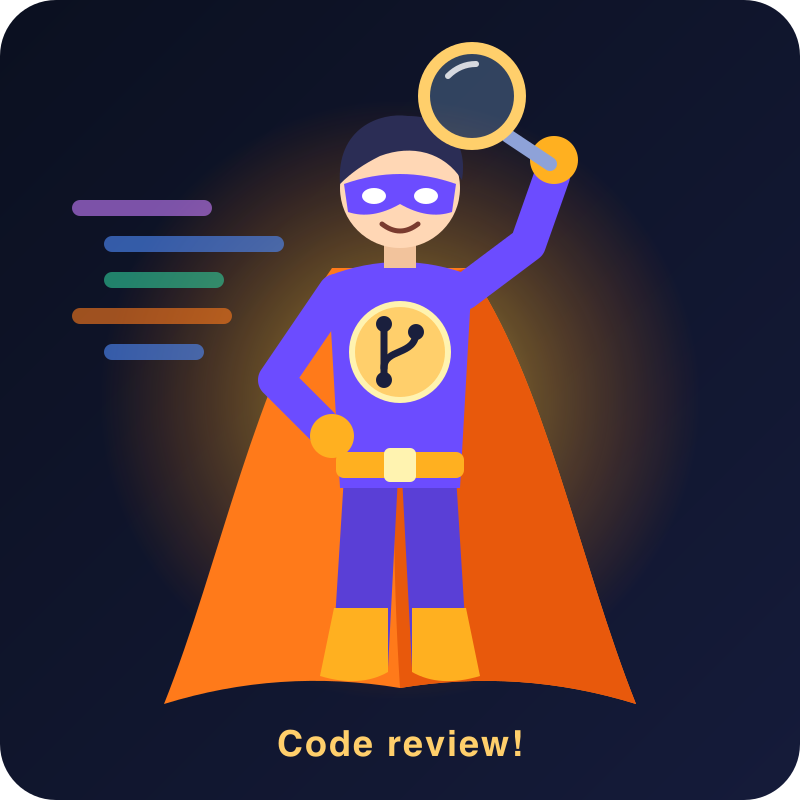
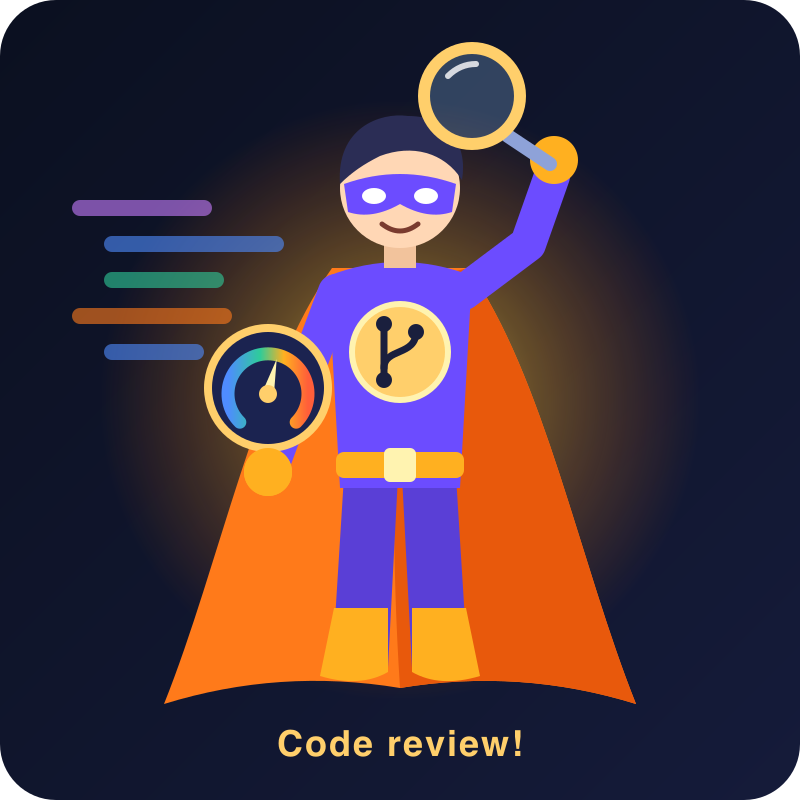
Give GPM a power meter in every full-body picture
Each pose holds a hand-held gauge whose needle tells the story: revving
(hero), wobbling (wave, review), pegged at max (flying, celebrate),
jumping with each commit (commit) and sinking to low (oops). Avatar and
face cuts are unchanged.

Changed region(s): [[0.25, 0.375, 0.4688, 0.625]]

diff --git a/scripts/make_gpm.py b/scripts/make_gpm.py
@@ -43,6 +43,30 @@ WAVE_R = arm([(632, 194), (664, 158), (672, 118)], (674, 110), 13, "open")
 HOLD_R = arm([(632, 194), (660, 150), (666, 118)], (667, 112), 12)
 LENS_R = arm([(632, 194), (664, 170), (676, 136)], (677, 128), 12)
 
+
+def meter_arm(points, hand, reading, tilt=0):
+    """Arm gripping a power meter by its handle; the dial sits 42 units above the hand.
+
+    reading 0..1 sets the needle (LOW..MAX). tilt rotates the meter about the hand.
+    The needle's inner <g class="ndl"> is the animated part (see NEEDLE)."""
+    hx, hy = hand
+    cx, cy = hx, hy - 42
+    px, py = cx, cy + 3  # needle pivot
+    deg = round(-135 + 270 * reading)
+    s = arm(points, hand, 12)
+    s += f'''<g transform="rotate({tilt} {hx} {hy})">
+    <path d="M{cx} {cy + 28} V{hy}" stroke="#2b2d55" stroke-width="8" stroke-linecap="round"/>
+    <circle cx="{cx}" cy="{cy}" r="30" fill="#1b2350" stroke="#ffcf6b" stroke-width="4"/>
+    <path d="M{px - 14.1:.1f} {py + 14.1:.1f} A20 20 0 1 1 {px + 14.1:.1f} {py + 14.1:.1f}" fill="none" stroke="url(#dial)" stroke-width="6.5" stroke-linecap="round"/>
+    <g transform="rotate({deg} {px} {py})"><g class="ndl"><path d="M{px - 3} {py} L{px} {py - 18} L{px + 3} {py} Z" fill="#fff3b0"/></g></g>
+    <circle cx="{px}" cy="{py}" r="4.5" fill="#ffcf6b"/>
+    </g>'''
+    return s + f'<circle cx="{hx}" cy="{hy}" r="12" fill="{GOLD}"/>'  # fingers over the handle
+
+
+METER_L = dict(points=[(568, 194), (534, 222), (506, 226)], hand=(504, 226))
+METER_R = dict(points=[(632, 194), (666, 222), (694, 226)], hand=(696, 226))
+
 SMILE = '<path d="M591 160 Q600 167 609 160" fill="none" stroke="#7a3b2e" stroke-width="2.5" stroke-linecap="round"/>'
 GRIN = ('<path d="M588 157 Q600 174 612 157 Z" fill="#7a3b2e"/>'
         '<path d="M591 158 H609 L607 162 H593 Z" fill="#ffffff"/>')
@@ -91,6 +115,34 @@ BASE_CSS = '''
     @keyframes blink { 0%, 92%, 100% { transform: scaleY(1); } 95% { transform: scaleY(0.1); } }
     @keyframes bob { 0%, 100% { transform: translateY(0); } 50% { transform: translateY(-6px); } }
     @keyframes twinkle { 0%, 100% { transform: scale(0.6); opacity: 0.5; } 50% { transform: scale(1.2); opacity: 1; } }'''
+# Needle motion, rotated about the needle's base (relative to its still reading).
+NEEDLE_BASE = '''
+    .ndl { transform-box: fill-box; transform-origin: 50% 100%; }'''
+NEEDLE = {
+    # revs up as the fist pumps
+    "rev": '''
+    .ndl { animation: rev 2.4s ease-in-out infinite; }
+    @keyframes rev { 0%, 100% { transform: rotate(-45deg); } 50% { transform: rotate(0); } }''',
+    "wobble": '''
+    .ndl { animation: wobble-n 1.2s ease-in-out infinite; }
+    @keyframes wobble-n { 0%, 100% { transform: rotate(-6deg); } 50% { transform: rotate(6deg); } }''',
+    # pinned against MAX, rattling
+    "peg": '''
+    .ndl { animation: peg 0.24s linear infinite alternate; }
+    @keyframes peg { from { transform: rotate(-5deg); } to { transform: rotate(2deg); } }''',
+    # jumps up with each +1 commit lift
+    "tick": '''
+    .ndl { animation: tick 2.4s ease-in-out infinite; }
+    @keyframes tick { 0%, 100% { transform: rotate(-40deg); } 50%, 70% { transform: rotate(0); } }''',
+    # sinks to LOW and twitches
+    "sink": '''
+    .ndl { animation: sink 2.4s ease-in-out infinite; }
+    @keyframes sink { 0% { transform: rotate(60deg); } 40%, 100% { transform: rotate(0); } 60% { transform: rotate(8deg); } 70% { transform: rotate(0); } }''',
+}
+DIAL = '''
+    <linearGradient id="dial" x1="0" y1="0" x2="1" y2="0">
+      <stop offset="0" stop-color="#4f8cff"/><stop offset="0.4" stop-color="#2ecc9a"/><stop offset="0.7" stop-color="#ffb020"/><stop offset="1" stop-color="#ff5e3a"/>
+    </linearGradient>'''
 REDUCED = '''
     @media (prefers-reduced-motion: reduce) { * { animation: none !important; } }'''
 
@@ -165,17 +217,18 @@ HEAD = '''<?xml version="1.0" encoding="UTF-8"?>
     <radialGradient id="glow" cx="0.5" cy="0.5" r="0.5">
       <stop offset="0" stop-color="#ffe680" stop-opacity="0.7"/><stop offset="0.45" stop-color="#ffb020" stop-opacity="0.35"/>
       <stop offset="1" stop-color="#ff6a00" stop-opacity="0"/>
-    </radialGradient>
+    </radialGradient>{defs}
   </defs>
   <rect width="400" height="400" rx="28" fill="url(#bg)"/>'''
 
 
-def head(name, title, desc):
-    return HEAD.format(title=title, desc=desc, css=BASE_CSS + MOTION[name] + REDUCED)
+def head(name, title, desc, needle=None):
+    css = BASE_CSS + MOTION[name] + (NEEDLE_BASE + NEEDLE[needle] if needle else "") + REDUCED
+    return HEAD.format(title=title, desc=desc, css=css, defs=DIAL if needle else "")
 
 
-def page(name, title, desc, caption, body, back="", front=""):
-    return head(name, title, desc) + f'''
+def page(name, title, desc, caption, body, back="", front="", needle=None):
+    return head(name, title, desc, needle) + f'''
   <circle class="glow" cx="200" cy="200" r="150" fill="url(#glow)"/>
   {back}
   <g transform="translate(-400 -48)"><g class="fig">{body}
@@ -233,25 +286,33 @@ OOPS = '''<path class="drop" d="M286 66 C292 78 296 86 296 92 C296 100 290 104 2
     <rect x="23" y="13" width="6" height="17" rx="3" fill="#ffffff"/><circle cx="26" cy="36" r="3.5" fill="#ffffff"/></g></g>'''
 
 # ── pictures ─────────────────────────────────────────────────────────────────
+# Every full-body pose holds his power meter; the needle tells the story.
 PICTURES = {
-    "gpm-hero": ("GPM hero", "GPM stands proud with one fist raised and the other hand on his hip.",
-                   "GPM", hero(FIST_UP_L, HIP_R), star(80, 90, 10, "#fff3b0") + star(320, 120, 7, "#ffffff", "tw b"), ""),
-    "gpm-wave": ("GPM waving", "GPM grins and waves hello.",
-                   "Hello, developer!", hero(DOWN_L, WAVE_R, GRIN), WAVE_LINES, ""),
-    "gpm-flying": ("GPM flying", "GPM flies up and to the right, fist forward, cape streaming behind him.",
-                     "Push to main!", f'<g transform="translate(-10 -40) rotate(55 600 245)">{hero(FIST_UP_L, HIP_R, GRIN)}</g>', SPEED, ""),
-    "gpm-commit": ("GPM commit", "GPM holds up a glowing green +1 commit at the end of a commit chain.",
-                     "Commit power!", hero(HIP_L, HOLD_R, GRIN), COMMIT_CHAIN, COMMIT_NODE),
-    "gpm-review": ("GPM code review", "GPM inspects lines of code with a big magnifying glass.",
-                     "Code review!", hero(HIP_L, LENS_R), CODE, LENS),
-    "gpm-celebrate": ("GPM celebrating", "GPM raises both fists and grins as confetti falls.",
-                        "Level up!", hero(FIST_UP_L, FIST_UP_R, GRIN), CONFETTI, ""),
-    "gpm-oops": ("GPM oops", "GPM looks worried next to a warning sign: something went wrong.",
-                   "Oops! Merge conflict", hero(DOWN_L, DOWN_R, WORRY), "", OOPS),
+    "gpm-hero": ("GPM hero", "GPM stands proud with one fist raised, holding out his power meter as the needle revs toward max.",
+                 "GPM", hero(FIST_UP_L, meter_arm(**METER_R, reading=0.85)),
+                 star(80, 90, 10, "#fff3b0") + star(320, 70, 7, "#ffffff", "tw b"), "", "rev"),
+    "gpm-wave": ("GPM waving", "GPM grins and waves hello, his power meter in the other hand.",
+                 "Hello, developer!", hero(meter_arm(**METER_L, reading=0.6), WAVE_R, GRIN), WAVE_LINES, "", "wobble"),
+    "gpm-flying": ("GPM flying", "GPM flies up and to the right, fist forward, cape streaming, power meter pegged at max.",
+                   "Push to main!",
+                   f'<g transform="translate(-10 -40) rotate(55 600 245)">{hero(FIST_UP_L, meter_arm(**METER_R, reading=0.95, tilt=-55), GRIN)}</g>',
+                   SPEED, "", "peg"),
+    "gpm-commit": ("GPM commit", "GPM holds up a glowing green +1 commit while the needle on his power meter jumps up.",
+                   "Commit power!", hero(meter_arm(**METER_L, reading=0.75), HOLD_R, GRIN), COMMIT_CHAIN, COMMIT_NODE, "tick"),
+    "gpm-review": ("GPM code review", "GPM inspects lines of code with a big magnifying glass, his power meter at his side.",
+                   "Code review!",
+                   hero(meter_arm([(568, 194), (550, 242), (536, 280)], (534, 284), reading=0.55), LENS_R), CODE, LENS, "wobble"),
+    "gpm-celebrate": ("GPM celebrating", "GPM grins with one fist up and his power meter raised high, needle pinned at max, as confetti falls.",
+                      "Level up!",
+                      hero(FIST_UP_L, meter_arm([(632, 194), (664, 164), (684, 136)], (686, 132), reading=1.0), GRIN),
+                      CONFETTI, "", "peg"),
+    "gpm-oops": ("GPM oops", "GPM looks worried next to a warning sign as the needle on his power meter sinks to low.",
+                 "Oops! Merge conflict",
+                 hero(DOWN_L, meter_arm([(632, 194), (656, 234), (676, 256)], (678, 258), reading=0.08), WORRY), "", OOPS, "sink"),
 }
 
-for name, (title, desc, caption, body, back, front) in PICTURES.items():
-    (OUT / f"{name}.svg").write_text(page(name, title, desc, caption, body, back, front))
+for name, (title, desc, caption, body, back, front, needle) in PICTURES.items():
+    (OUT / f"{name}.svg").write_text(page(name, title, desc, caption, body, back, front, needle))
 
 # avatar: head-and-shoulders close-up, no caption
 (OUT / "gpm-avatar.svg").write_text(head(

diff --git a/README.md b/README.md
@@ -30,15 +30,15 @@ GPM is the gpman mascot: the Git Power Meter as a caped hero, with a git branch 
 
 <table>
   <tr>
-    <td align="center"><img src="assets/gpm/gpm-hero.svg" alt="GPM standing proud with one fist raised" width="160"><br><sub>Hero</sub></td>
-    <td align="center"><img src="assets/gpm/gpm-wave.svg" alt="GPM waving hello" width="160"><br><sub>Hello</sub></td>
-    <td align="center"><img src="assets/gpm/gpm-commit.svg" alt="GPM holding up a glowing +1 commit" width="160"><br><sub>Commit</sub></td>
-    <td align="center"><img src="assets/gpm/gpm-flying.svg" alt="GPM flying with his cape streaming" width="160"><br><sub>Push</sub></td>
+    <td align="center"><img src="assets/gpm/gpm-hero.svg" alt="GPM standing proud with one fist raised, holding out his power meter" width="160"><br><sub>Hero</sub></td>
+    <td align="center"><img src="assets/gpm/gpm-wave.svg" alt="GPM waving hello with his power meter in the other hand" width="160"><br><sub>Hello</sub></td>
+    <td align="center"><img src="assets/gpm/gpm-commit.svg" alt="GPM holding up a glowing +1 commit as his power meter jumps up" width="160"><br><sub>Commit</sub></td>
+    <td align="center"><img src="assets/gpm/gpm-flying.svg" alt="GPM flying with his cape streaming, power meter pegged at max" width="160"><br><sub>Push</sub></td>
   </tr>
   <tr>
-    <td align="center"><img src="assets/gpm/gpm-review.svg" alt="GPM inspecting code with a magnifying glass" width="160"><br><sub>Code review</sub></td>
-    <td align="center"><img src="assets/gpm/gpm-celebrate.svg" alt="GPM celebrating with both fists up and confetti" width="160"><br><sub>Level up</sub></td>
-    <td align="center"><img src="assets/gpm/gpm-oops.svg" alt="GPM looking worried next to a warning sign" width="160"><br><sub>Oops</sub></td>
+    <td align="center"><img src="assets/gpm/gpm-review.svg" alt="GPM inspecting code with a magnifying glass, power meter at his side" width="160"><br><sub>Code review</sub></td>
+    <td align="center"><img src="assets/gpm/gpm-celebrate.svg" alt="GPM celebrating in confetti with his power meter raised high at max" width="160"><br><sub>Level up</sub></td>
+    <td align="center"><img src="assets/gpm/gpm-oops.svg" alt="GPM looking worried next to a warning sign as his power meter sinks to low" width="160"><br><sub>Oops</sub></td>
     <td align="center"><img src="assets/gpm/gpm-avatar.svg" alt="Close-up of GPM's grinning masked face" width="160"><br><sub>Avatar</sub></td>
   </tr>
 </table>
